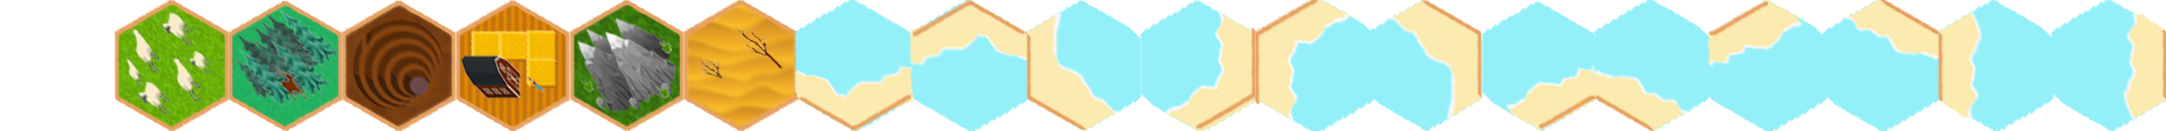
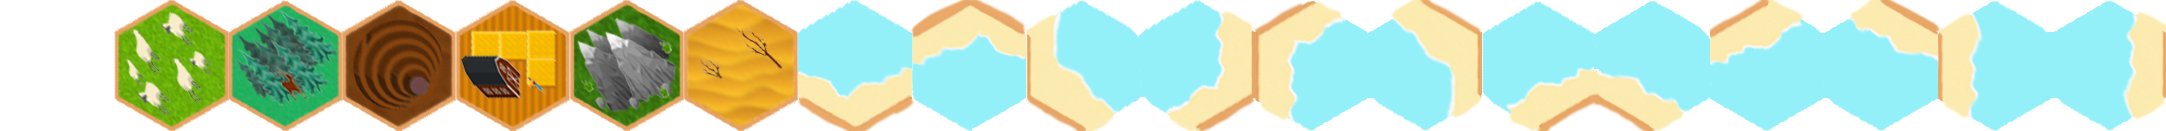
Ajout texture port, modif renderpiece

diff --git a/src/shared/view/RenderPieces.cpp b/src/shared/view/RenderPieces.cpp
@@ -14,7 +14,7 @@ RenderPieces::RenderPieces (state::State state, sf::VertexArray* tile_vertices){
 
     buildingTexture.loadFromFile("../res/pieces.png");
     roadTexture.loadFromFile("../res/roadsIso.png");
-    portTexture.loadFromFile("../res/portIso.png");
+    portTexture.loadFromFile("../res/portIso2.png");
     
 
     font.loadFromFile("../res/poppins.ttf");
@@ -56,69 +56,117 @@ RenderPieces::RenderPieces (state::State state, sf::VertexArray* tile_vertices){
 
     sf::Texture* iconTexture = new sf::Texture();
     iconTexture->loadFromFile("../res/icons.png");
+    sf::Vector2f centre1;
+    
+    for (int i=0; i<state.map.ports.size(); i++){
+        if(state.map.ports[i].position[0].x < state.map.ports[i].position[1].x){
+            if(state.map.ports[i].position[0].y < state.map.ports[i].position[1].y){
+               ports.push_back(sf::Sprite(portTexture, sf::IntRect(115*0, 0, 115, 60))); 
+            }
+            else if(state.map.ports[i].position[0].y > state.map.ports[i].position[1].y){
+                ports.push_back(sf::Sprite(portTexture, sf::IntRect(115*1, 0, 115, 60)));
+            }
+            else if(state.map.ports[i].position[0].y = state.map.ports[i].position[1].y){
+                ports.push_back(sf::Sprite(portTexture, sf::IntRect(115*3, 0, 115, 60)));
+            }
+        }
+        else if(state.map.ports[i].position[0].x > state.map.ports[i].position[1].x){
+            if(state.map.ports[i].position[0].y < state.map.ports[i].position[1].y){
+               ports.push_back(sf::Sprite(portTexture, sf::IntRect(115*1, 0, 115, 60))); 
+            }
+            else if(state.map.ports[i].position[0].y > state.map.ports[i].position[1].y){
+                ports.push_back(sf::Sprite(portTexture, sf::IntRect(115*4, 0, 115, 60)));
+            }
+            else if(state.map.ports[i].position[0].y = state.map.ports[i].position[1].y){
+                ports.push_back(sf::Sprite(portTexture, sf::IntRect(115*5, 0, 115, 60)));
+            }
+        }
+        else if(state.map.ports[i].position[0].x = state.map.ports[i].position[1].x){
+            if(state.map.ports[i].position[0].y < state.map.ports[i].position[1].y){
+               ports.push_back(sf::Sprite(portTexture, sf::IntRect(115*3, 0, 115, 60))); 
+            }
+            else if(state.map.ports[i].position[0].y > state.map.ports[i].position[1].y){
+                ports.push_back(sf::Sprite(portTexture, sf::IntRect(115*4, 0, 115, 60)));
+            }
+            else if(state.map.ports[i].position[0].y = state.map.ports[i].position[1].y){
+                ports.push_back(sf::Sprite(portTexture, sf::IntRect(115*5, 0, 115, 60)));
+            }
+        }
+       
 
-    for (Port port : state.map.ports){
-        ports.push_back(sf::Sprite(portTexture, sf::IntRect(0, 0, 114, 114)));
-        portTexts.push_back(sf::Text(to_string(port.exchangeRate), font, 18));
+        centre1 = (*tile_vertices)[(state.map.ports[i].position[0].x + state.map.ports[i].position[0].y*7)*12].position + sf::Vector2f(-65, 32.5);
+        
+        ports.back().setScale(sf::Vector2f(1.5, 1.5));
+        ports.back().setOrigin(ports.back().getGlobalBounds().width/2, ports.back().getGlobalBounds().height/2);
+        ports.back().setPosition(centre1.x, centre1.y);
+       
+        portTexts.push_back(sf::Text(to_string(state.map.ports[i].exchangeRate), font, 18));
         portTexts.back().setColor(sf::Color(255, 255, 255));
-        portIcons.push_back(sf::Sprite(*iconTexture, sf::IntRect((port.resourceType<5?port.resourceType:7)*74, 0, 74, 58)));
+        portIcons.push_back(sf::Sprite(*iconTexture, sf::IntRect((state.map.ports[i].resourceType<5?state.map.ports[i].resourceType:7)*74, 0, 74, 58)));
 
         portIcons.back().setScale(0.27*RESIZE, 0.27*RESIZE);
 
-    }
-        
-    sf::Vector2f v;
-    sf::Vector2f centre1, centre2;
-    std::array<Position, 2>* array2;
-    float portRotation;
-    const float degToRad = 3.1415/180;
-
-    for(int i = 0; i < ports.size(); i++){
-        array2 = &state.map.ports[i].position;
-
-        if (state.map.grid[(*array2)[0].x + (*array2)[0].y*7] > state.map.grid[(*array2)[1].x + (*array2)[1].y*7]){
-            //port.position[0] is the beach
-            centre1 = (*tile_vertices)[(((*array2)[0].x + (*array2)[0].y*7))*12].position + sf::Vector2f(-65, 32.5);
-            centre2 = (*tile_vertices)[(((*array2)[1].x + (*array2)[1].y*7))*12].position + sf::Vector2f(-65, 32.5);
-        } else {
-            //port.position[1] is the beach
-            centre1 = (*tile_vertices)[(((*array2)[1].x + (*array2)[1].y*7))*12].position + sf::Vector2f(-65, 32.5);
-            centre2 = (*tile_vertices)[(((*array2)[0].x + (*array2)[0].y*7))*12].position + sf::Vector2f(-65, 32.5);
-        }
-        ports[i].setPosition(centre1.x, centre1.y);
-        ports[i].setOrigin(portTexture.getSize().x/2, portTexture.getSize().y/2);
-
-        ports[i].setScale(RESIZE, RESIZE);
-
-        v = centre1 - centre2;
-        if (centre1.y == centre2.y){
-            if (v.x > 0)
-                portRotation = 180;
-            else
-                portRotation = 0;
-            
-        } else if (v.x > 0 && v.y > 0)
-            portRotation = 240;
-        else if (v.x > 0 && v.y < 0)
-            portRotation = 120;
-        else if (v.x < 0 && v.y > 0)
-            portRotation = 300;
-        else
-            portRotation = 60;
-
-        ports[i].setRotation(portRotation);
-
-        //transformation isometrique
-        // ports[i].rotate(45);
-        // ports[i].scale(sf::Vector2f(1.0, 0.5));
-
-        portIcons[i].setPosition(centre1 + sf::Vector2f(-cos((360-portRotation)*degToRad)*20, sin((360-portRotation)*degToRad)*20));
         portIcons[i].setOrigin(74/2, 58/2);
 
 
         portTexts[i].setPosition(portIcons[i].getPosition() - sf::Vector2f(17, 5));
         portTexts[i].setOrigin(portTexts[i].getGlobalBounds().width/2, portTexts[i].getGlobalBounds().height/2);
+        
+
     }
+        
+    // sf::Vector2f v;
+    // sf::Vector2f centre1, centre2;
+    // std::array<Position, 2>* array2;
+    // float portRotation;
+    // const float degToRad = 3.1415/180;
+
+    // for(int i = 0; i < ports.size(); i++){
+    //     array2 = &state.map.ports[i].position;
+
+    //     if (state.map.grid[(*array2)[0].x + (*array2)[0].y*7] > state.map.grid[(*array2)[1].x + (*array2)[1].y*7]){
+    //         //port.position[0] is the beach
+    //         centre1 = (*tile_vertices)[(((*array2)[0].x + (*array2)[0].y*7))*12].position + sf::Vector2f(-65, 32.5);
+    //         centre2 = (*tile_vertices)[(((*array2)[1].x + (*array2)[1].y*7))*12].position + sf::Vector2f(-65, 32.5);
+    //     } else {
+    //         //port.position[1] is the beach
+    //         centre1 = (*tile_vertices)[(((*array2)[1].x + (*array2)[1].y*7))*12].position + sf::Vector2f(-65, 32.5);
+    //         centre2 = (*tile_vertices)[(((*array2)[0].x + (*array2)[0].y*7))*12].position + sf::Vector2f(-65, 32.5);
+    //     }
+    //     ports[i].setPosition(centre1.x, centre1.y);
+    //     ports[i].setOrigin(portTexture.getSize().x/2, portTexture.getSize().y/2);
+
+    //     ports[i].setScale(RESIZE, RESIZE);
+
+    //     v = centre1 - centre2;
+    //     if (centre1.y == centre2.y){
+    //         if (v.x > 0)
+    //             portRotation = 180;
+    //         else
+    //             portRotation = 0;
+            
+    //     } else if (v.x > 0 && v.y > 0)
+    //         portRotation = 240;
+    //     else if (v.x > 0 && v.y < 0)
+    //         portRotation = 120;
+    //     else if (v.x < 0 && v.y > 0)
+    //         portRotation = 300;
+    //     else
+    //         portRotation = 60;
+
+    //     ports[i].setRotation(portRotation);
+
+    //     //transformation isometrique
+    //     // ports[i].rotate(45);
+    //     // ports[i].scale(sf::Vector2f(1.0, 0.5));
+
+    //     portIcons[i].setPosition(centre1 + sf::Vector2f(-cos((360-portRotation)*degToRad)*20, sin((360-portRotation)*degToRad)*20));
+    //     portIcons[i].setOrigin(74/2, 58/2);
+
+
+    //     portTexts[i].setPosition(portIcons[i].getPosition() - sf::Vector2f(17, 5));
+    //     portTexts[i].setOrigin(portTexts[i].getGlobalBounds().width/2, portTexts[i].getGlobalBounds().height/2);
+    // }
 
 }
 
@@ -137,6 +185,7 @@ void RenderPieces::update(state::State state){
         buildings.back().setPosition((centre1.x + centre2.x + centre3.x)/3, (centre1.y + centre2.y + centre3.y)/3); //moyenne sur les centres pour avoir la pointe qu'il faut pour placer le building
         buildings.back().setOrigin(19, 18.5);
         buildings.back().setScale(RESIZE, RESIZE);
+        //cout << "x : " << buildings.back().getPosition().x << "  |  y : " << buildings.back().getPosition().y << endl;
     }
 
     int roadOffset = 0;
@@ -188,7 +237,7 @@ void RenderPieces::render(state::State state, sf::RenderTarget& target){
     }
     
     for (i = 0; i < ports.size(); i++){
-        //target.draw(ports[i]);
+        target.draw(ports[i]);
         //target.draw(portIcons[i]);
         //target.draw(portTexts[i]);
     }
@@ -198,7 +247,7 @@ void RenderPieces::render(state::State state, sf::RenderTarget& target){
     }
 
     for(int i = 0; i < tokens.size(); i++){
-        //target.draw(tokens[i]);
+        target.draw(tokens[i]);
         //target.draw(spriteTokens.at(i));
     }
 

diff --git a/src/shared/view/TileMap.cpp b/src/shared/view/TileMap.cpp
@@ -13,8 +13,8 @@ bool TileMap::load(const std::string& tileset, sf::Vector2u tileSize, const int*
     back.setTexture(*backgroundHex);
     back.setTextureRect(sf::IntRect(0,0,1920, 1080));
     back.setOrigin(back.getGlobalBounds().width/2, back.getGlobalBounds().height/2);
-    back.setPosition(1280/2, 720/2 + 20);
-    back.setScale(sf::Vector2f(0.55, 0.55));
+    back.setPosition(1280/2 + 20, 720/2 + 30);
+    back.setScale(sf::Vector2f(0.6, 0.6));
 
     
     // on charge la texture du tileset
